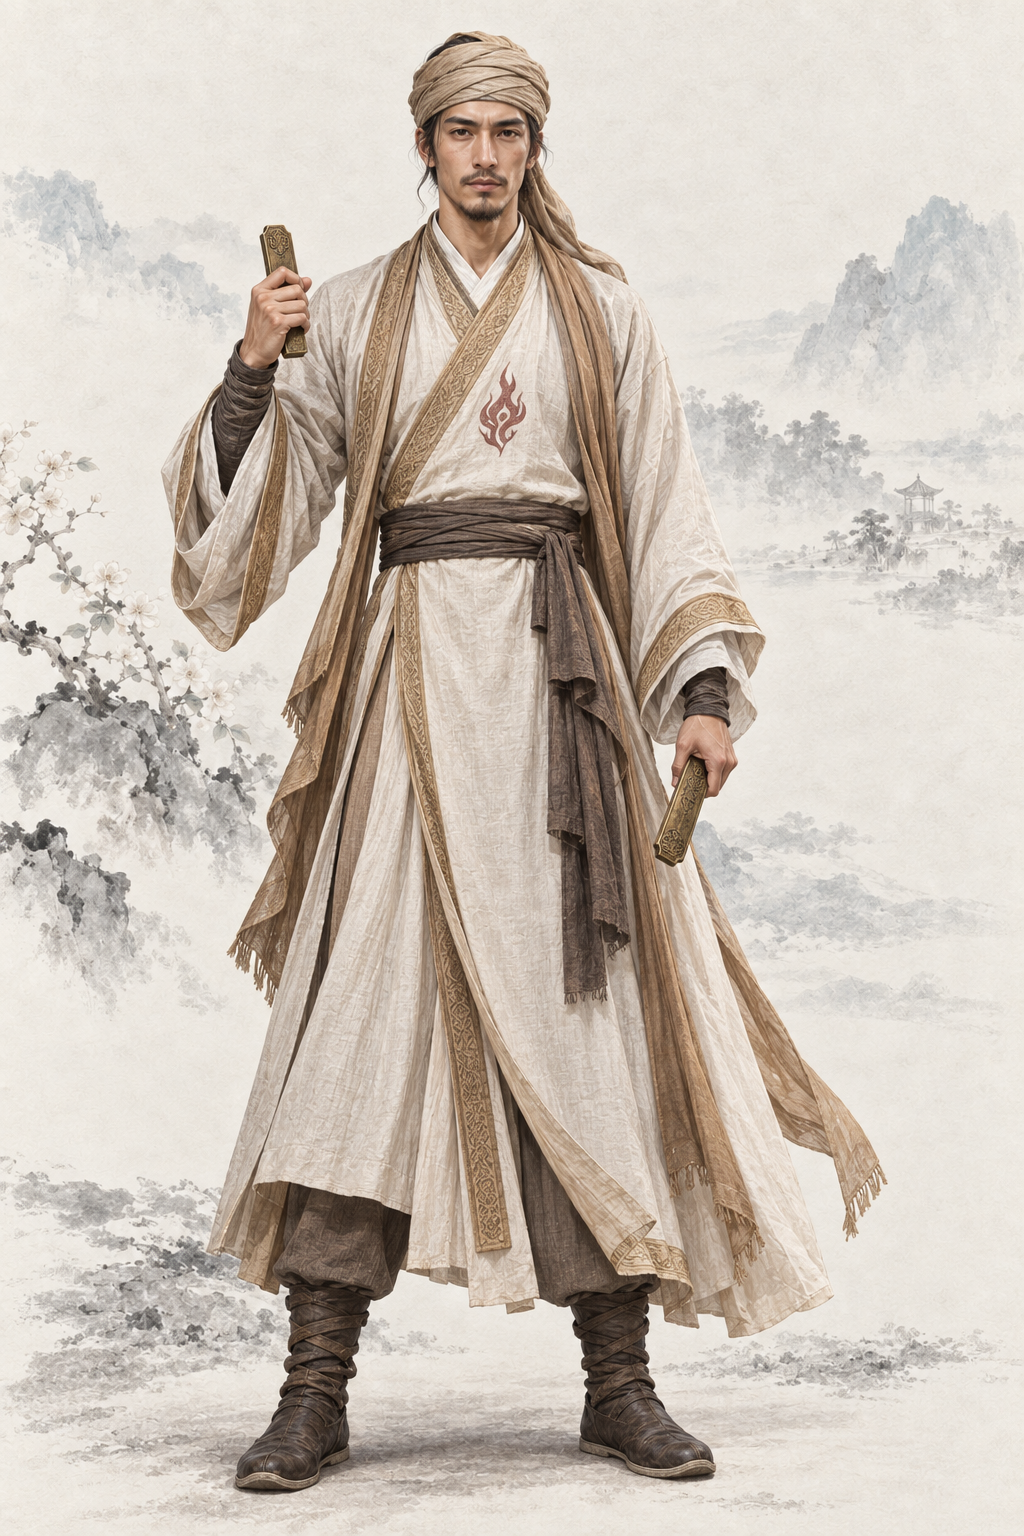
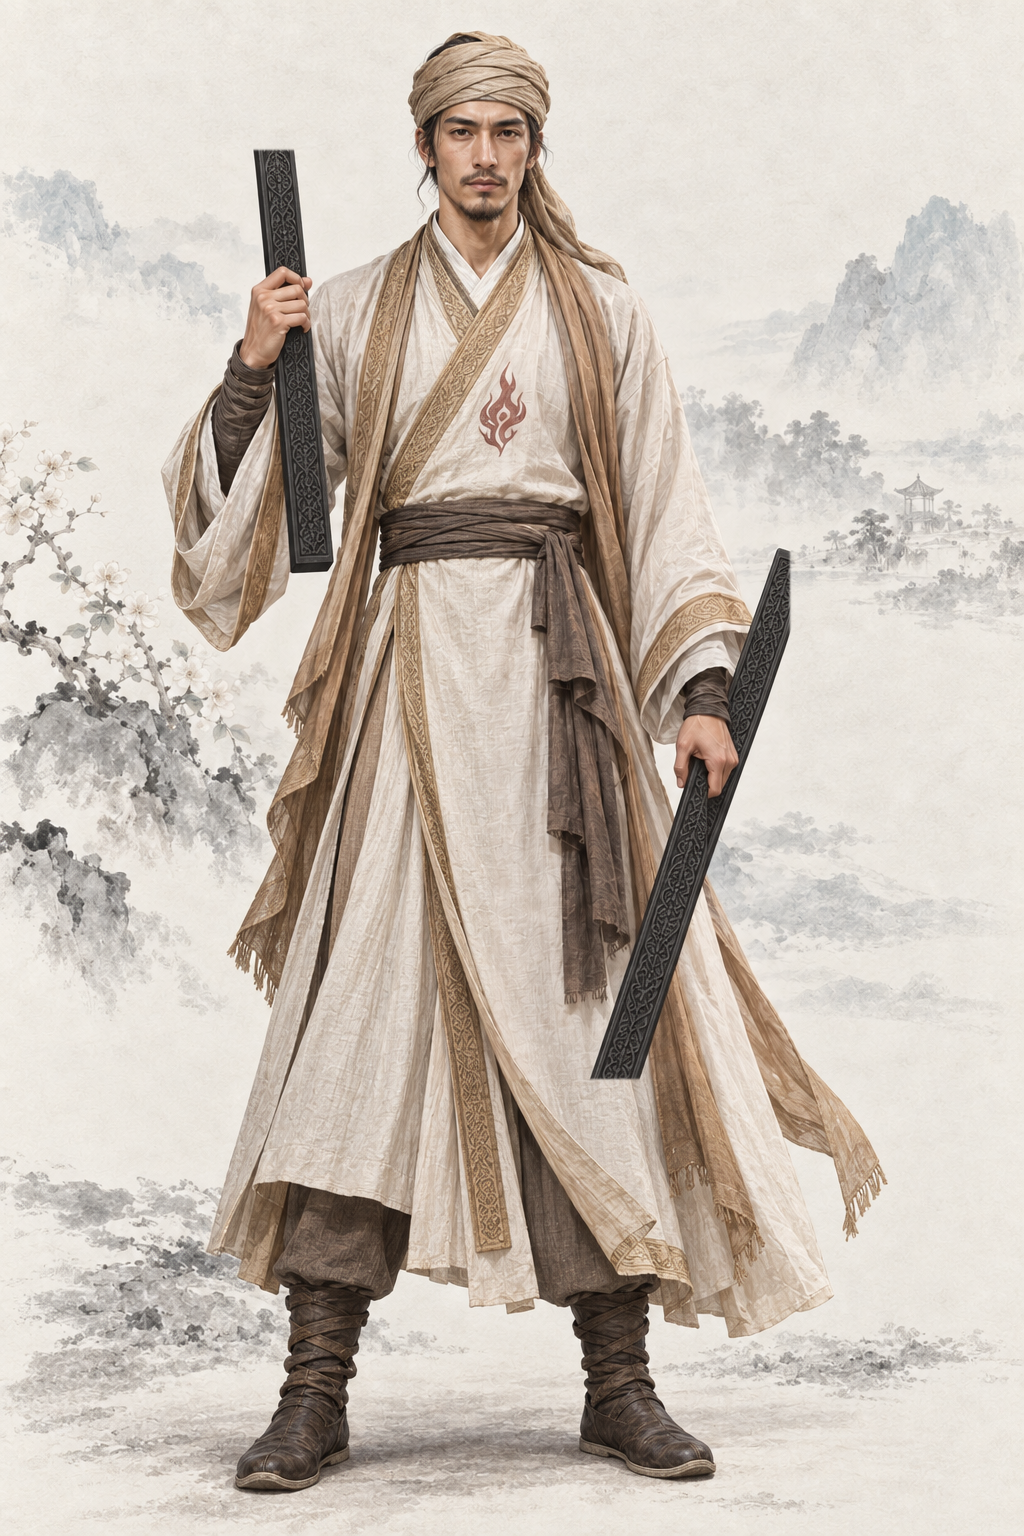
assets: AR-82 原著核对返修 波斯使者圣火令改两尺长黑牌
原著摘句已同步提示词；已打开验图；蒙版外0像素变化。

Executed-By: Codex gpt-6.1-sol（AR-82）

Changed region(s): [[0.5625, 0.3438, 0.7812, 0.7188], [0.25, 0.0938, 0.3438, 0.375], [0.4688, 0.1875, 0.5, 0.2188]]

diff --git a/assets/default/prompts/characters/ch04-yitian/npc_miaofengshi.md b/assets/default/prompts/characters/ch04-yitian/npc_miaofengshi.md
@@ -73,3 +73,8 @@ FINAL POSE CHECK: FRONT-FACING 妙风使. Forehead–nose–chin centreline VERT
 - 采用作者授权宽松自查；偏差如实记录，candidate不代表approved。
 - 源PNG通常为1024×1536 RGB；其他原生2:3尺寸如实登记，原字节保存，不裁切、重编码、放大或去除溯源。
 - 完整请求、实际参考哈希及旧版本备份见 `.agents/coord/portrait-generation/identity-20261001/por_npc_miaofengshi__ch04_prime_base.prepared.json`。
+
+## 原著依据
+
+- 《倚天屠龙记》二十九 四女同舟何所望：“每只手中各拿着一条两尺来长的黑牌”；https://www.xuges.com/wuxia/jinyong/yttlj/216.htm
+- AR-82 返修约束（本节优先于历史提示词）：只将两手中短小金色饰牌改成两尺来长的黑色圣火令，每只手一条，长度各约60厘米，长条厚实而非黄金挂牌，非金非玉的黑色材质，浅刻波斯纹且微弱折光。保持原手抓握位置与手指，黑牌长度向手上下延伸、需完整可见，不改变人物脸、衣服或火焰标记。
